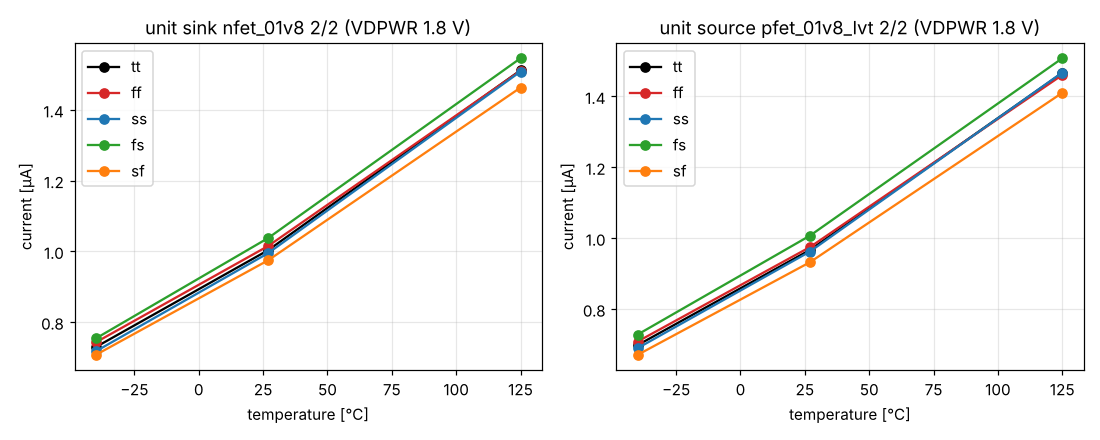
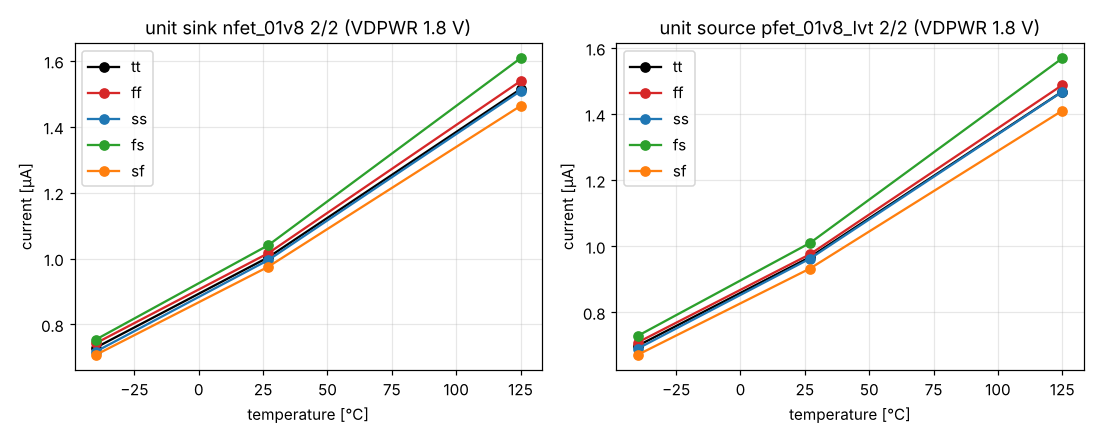
Chunk 1a: bias_gen Phase 2 done (45/45), layout brief final
5 corners x -40/27/125 C x 1.62/1.80/1.98 V: unit sink 0.68-1.64 uA
(mostly temperature, I ~ VT/R1), line <= 8.9 %, startup 45/45 on both
ramps (running by VDPWR <= 0.98 V), power-down <= 43 nA.
- Power-down switches L 0.15 -> 0.5, pd inverter L 0.15 -> 1: the
  minimum-length inverter PMOS leaked 1.5 uA at 125 C in power-down.
- Testbench drives pd from VDPWR (a fixed 1.8 V 'high' left PMOS
  switches partly on at 1.98 V).
- Brief docs/specs/layout_briefs/bias_gen.md has the final sizes.

Claude-Session: https://claude.ai/code/session_018xb9mH8bN9u9RTJdbtix1L

diff --git a/xschem/gen_bias_gen.py b/xschem/gen_bias_gen.py
@@ -52,14 +52,15 @@ for i in range(5):
     p(f"MS2{'ABCDE'[i]}", _ms[i + 1], "VGND", _ms[i], sym=PF, model="pfet_01v8", W=0.42, L=10, nf=1, mult=1)
 n("MS3", "su", "nbias", "VGND", W=2, L=2, nf=1, mult=1)
 n("MS1", "pbias", "su", "VGND", W=0.42, L=1, nf=1, mult=1)
-# power-down
-p("MPD2", "sup", "pd", "VDPWR", sym=PF, model="pfet_01v8", W=0.42, L=0.15, nf=1, mult=1)
-p("MPD1", "pbias", "pdb", "VDPWR", sym=PF, model="pfet_01v8", W=0.42, L=0.15, nf=1, mult=1)
-n("MND1", "nbias", "pd", "VGND", W=0.42, L=0.15, nf=1, mult=1)
-n("MND2", "su", "pd", "VGND", W=0.42, L=0.15, nf=1, mult=1)
+# power-down. Static switches, so not minimum length: at L = 0.15 the off-state leakage at 125 C
+# (fast corners) reached 1.5 uA in power-down (MIP) - Phase 2 sweep, 2026-11-08.
+p("MPD2", "sup", "pd", "VDPWR", sym=PF, model="pfet_01v8", W=0.42, L=0.5, nf=1, mult=1)
+p("MPD1", "pbias", "pdb", "VDPWR", sym=PF, model="pfet_01v8", W=0.42, L=0.5, nf=1, mult=1)
+n("MND1", "nbias", "pd", "VGND", W=0.42, L=0.5, nf=1, mult=1)
+n("MND2", "su", "pd", "VGND", W=0.42, L=0.5, nf=1, mult=1)
 # pd inverter
-p("MIP", "pdb", "pd", "VDPWR", sym=PF, model="pfet_01v8", W=0.84, L=0.15, nf=1, mult=1)
-n("MIN", "pdb", "pd", "VGND", W=0.42, L=0.15, nf=1, mult=1)
+p("MIP", "pdb", "pd", "VDPWR", sym=PF, model="pfet_01v8", W=0.84, L=1, nf=1, mult=1)
+n("MIN", "pdb", "pd", "VGND", W=0.42, L=1, nf=1, mult=1)
 
 s.write(os.path.join(os.path.dirname(os.path.abspath(__file__)), "bias_gen.sch"), sym=True)
 print("wrote xschem/bias_gen.sch, bias_gen.sym")

diff --git a/docs/specs/layout_briefs/bias_gen.md b/docs/specs/layout_briefs/bias_gen.md
@@ -1,6 +1,6 @@
 # Layout brief — chunk 1a: `bias_gen`
 
-**Status: ready to draw (2026-11-08).** Schematic: `xschem/bias_gen.sch` (generated by `xschem/gen_bias_gen.py`).
+**Status: ready to draw (2026-11-08), sizes final after the Phase 2 sweep.** Schematic: `xschem/bias_gen.sch` (generated by `xschem/gen_bias_gen.py`).
 Netlist for LVS: `sim/out/netlist/bias_gen.spice` (`tools/netlist.sh bias_gen`).
 Phase 1 + Phase 2 results: `sim/bias/results.md`, `sim/bias/corners.md`.
 
@@ -37,12 +37,12 @@ exactly these names (text on the metal), because the extraction reads the labels
 | MS2A–E | pfet_01v8 | 0.42 / 10 | 5 in series | sup → ms2_1 → … → ms2_4 → su, G = VGND, B = VDPWR | weak pull-up; a series chain |
 | MS3 | nfet_01v8 | 2 / 2 | 1 | su / nbias / VGND / VGND | |
 | MS1 | nfet_01v8 | 0.42 / 1 | 1 | pbias / su / VGND / VGND | |
-| MPD1 | pfet_01v8 | 0.42 / 0.15 | 1 | pbias / pdb / VDPWR / VDPWR | power-down |
-| MPD2 | pfet_01v8 | 0.42 / 0.15 | 1 | sup / pd / VDPWR / VDPWR | power-down |
-| MND1 | nfet_01v8 | 0.42 / 0.15 | 1 | nbias / pd / VGND / VGND | power-down |
-| MND2 | nfet_01v8 | 0.42 / 0.15 | 1 | su / pd / VGND / VGND | power-down |
-| MIP | pfet_01v8 | 0.84 / 0.15 | 1 | pdb / pd / VDPWR / VDPWR | pd inverter |
-| MIN | nfet_01v8 | 0.42 / 0.15 | 1 | pdb / pd / VGND / VGND | pd inverter |
+| MPD1 | pfet_01v8 | 0.42 / 0.5 | 1 | pbias / pdb / VDPWR / VDPWR | power-down |
+| MPD2 | pfet_01v8 | 0.42 / 0.5 | 1 | sup / pd / VDPWR / VDPWR | power-down |
+| MND1 | nfet_01v8 | 0.42 / 0.5 | 1 | nbias / pd / VGND / VGND | power-down |
+| MND2 | nfet_01v8 | 0.42 / 0.5 | 1 | su / pd / VGND / VGND | power-down |
+| MIP | pfet_01v8 | 0.84 / 1 | 1 | pdb / pd / VDPWR / VDPWR | pd inverter |
+| MIN | nfet_01v8 | 0.42 / 1 | 1 | pdb / pd / VGND / VGND | pd inverter |
 | MDN1, MDN2 | nfet_01v8 | 2 / 2 | 2 | all VGND | dummies at the ends of the MN row |
 | MDP1, MDP2 | pfet_01v8_lvt | 2 / 2 | 2 | all VDPWR | dummies at the ends of the MP row |
 
@@ -91,6 +91,11 @@ i.e. wrong W/L, count as a fail). It must say `Magic DRC: 0 errors` and `LVS: ma
 `layout/cells/bias_gen.gds`. I'll add the KLayout DRC deck run and the post-layout simulation (`--pex`
 netlist into `sim/bias/tb_bias.spice`).
 
-## What consumers see (Phase 2, for the other blocks' margins)
+## Phase 2 result (sizes above are final for layout)
 
-See `sim/bias/corners.md`: unit-current range over corners × temperature × supply.
+From `sim/bias/corners.md`: 45 runs (5 corners × −40/27/125 °C × 1.62/1.80/1.98 V). All pass.
+- Unit sink is **0.68 … 1.64 µA** and unit source is 0.64 … 1.61 µA. The spread is mostly temperature
+  (tt: 0.73 µA at −40 °C, 1.51 µA at 125 °C), because I ∝ VT / R1. Process moves it only ±3 %.
+  Every consumer's own Phase 2 sweep must use this range.
+- Line regulation is ≤ 8.9 % (target < 10 %). Startup works on both ramps in 45/45 runs, and is
+  running by VDPWR ≤ 0.98 V. Power-down current is ≤ 43 nA (125 °C).

diff --git a/sim/bias/corners.md b/sim/bias/corners.md
@@ -1,28 +1,26 @@
 # bias_gen — Phase 2 corners (generated by corners_report.py)
 
-45 runs: corners tt/ff/ss/fs/sf × −40/27/125 °C × VDPWR 1.62/1.80/1.98 V. Failed runs: 0.
+45 runs: corners tt/ff/ss/fs/sf × −40/27/125 °C × VDPWR 1.62/1.80/1.98 V. Failed runs: 0. Runs where the .op current differs from the DC sweep by > 1 %: 0.
 
 ## Unit currents at VDPWR = 1.80 V (µA)
 
 | corner | sink −40 °C | sink 27 °C | sink 125 °C | source −40 °C | source 27 °C | source 125 °C |
 |---|---|---|---|---|---|---|
-| tt | 0.730 | 1.004 | 1.512 | 0.698 | 0.967 | 1.466 |
-| ff | 0.743 | 1.016 | 1.511 | 0.709 | 0.975 | 1.461 |
+| tt | 0.730 | 1.004 | 1.514 | 0.698 | 0.967 | 1.468 |
+| ff | 0.743 | 1.016 | 1.539 | 0.709 | 0.976 | 1.488 |
 | ss | 0.718 | 0.995 | 1.509 | 0.690 | 0.963 | 1.468 |
-| fs | 0.754 | 1.038 | 1.546 | 0.728 | 1.007 | 1.508 |
+| fs | 0.754 | 1.041 | 1.608 | 0.728 | 1.010 | 1.569 |
 | sf | 0.708 | 0.975 | 1.463 | 0.671 | 0.932 | 1.410 |
 
 ## Summary over all 45 runs
 
 | Quantity | min | max | Note |
 |---|---|---|---|
-| Unit sink (nfet 2/2) | 0.324 µA | 1.581 µA | spread 4.89× |
-| Unit source (pfet_lvt 2/2) | 0.304 µA | 1.544 µA | spread 5.08× |
-| bias_gen own current | 0.91 µA | 3.42 µA | |
-| Power-down supply current | 0.02 nA | 5418.54 nA | |
-| Line: sink change 1.62–1.98 V | | 64.5 % | worst at tt, 27 °C (target < 10 %) |
-| Startup (1 µs and 100 µs ramps reach the DC current within 1 %) | | | 44/45 runs |
-| Slow ramp: VDPWR when the sink reaches 0.5 µA | 0.62 V | 1.10 V | worst at sf, -40 °C, 1.98 V (must be < 1.62 V) |
-| Lowest `su` during the ramps | -0.23 V | | junction clamp; startup unaffected |
-
-Startup failures: tt_T27_V1.98
+| Unit sink (nfet 2/2) | 0.676 µA | 1.643 µA | spread 2.43× |
+| Unit source (pfet_lvt 2/2) | 0.639 µA | 1.605 µA | spread 2.51× |
+| bias_gen own current | 1.39 µA | 3.51 µA | |
+| Power-down supply current | 0.02 nA | 42.95 nA | |
+| Line: sink change 1.62–1.98 V | | 8.9 % | worst at sf, -40 °C (target < 10 %) |
+| Startup (1 µs and 100 µs ramps reach the DC current within 1 %) | | | 45/45 runs |
+| Slow ramp: VDPWR when the sink reaches 0.5 µA | 0.62 V | 0.98 V | worst at fs, -40 °C, 1.98 V (must be < 1.62 V) |
+| Lowest `su` during the ramps | -0.15 V | | junction clamp; startup unaffected |

diff --git a/sim/bias/README.md b/sim/bias/README.md
@@ -43,3 +43,16 @@ own consumption, 0.7 nA when powered down, starts from 0 V on both a 1 µs and a
 - **`tb_bias.spice` uses `.options method=gear`.** With trapezoidal integration, after the 1 µs startup ramp the
   unit sink showed 0.90 µA for tens of µs, while every node voltage was already at its DC value
   (a numerical error current, gone with gear or with reltol 1e-5; same check with the old netlist: 1.004 µA).
+
+## Phase 2 (2026-11-08)
+
+`../../tools/run_corners.py tb_bias.spice --corners tt,ff,ss,fs,sf --temps=-40,27,125 --vdd 1.62,1.8,1.98`
+then `python3 corners_report.py` → `corners.md`, `plots/corners.png`. All 45 runs pass (summary in `corners.md`).
+Changes it caused:
+- **Power-down switches and the pd inverter are no longer minimum length** (switches L = 0.5, inverter
+  L = 1). At L = 0.15 the inverter PMOS leaked 1.5 µA at 125 °C in power-down; now the worst case is 43 nA.
+- **The testbench drives `pd` from VDPWR** (`EPD`, gain 0/1), not a fixed 1.8 V source. At 1.98 V a 1.8 V
+  "high" left the PMOS switches partly on.
+- **Nodesets for `.op`.** At tt/27 °C/1.98 V the plain `.op` converged to a non-physical point. The report
+  cross-checks each `.op` current against the DC sweep.
+- **Layout dummies** MDN1/2 and MDP1/2 are in the schematic.

diff --git a/docs/specs/stage_plan.md b/docs/specs/stage_plan.md
@@ -148,7 +148,7 @@ pass through simulation, layout and LVS on a small block.
 | Stage | a | b | c | d | e | f | g | Notes |
 |---|---|---|---|---|---|---|---|---|
 | 0 Devices | — | ✅ 2026-11-01 | | — | — | — | — | `sim/devices/README.md`: ideal zero-TC VBG ≈ 1.25 V (stage 3 later found 1.215 V for the real circuit), tight headroom at 1.62 V |
-| 1 Bias | ✅ 2026-11-01 | ✅ 2026-11-01 | | | | | | `sim/bias/README.md`: 1.00 µA, 2.15 µA own current, starts on fast and slow ramps |
+| 1 Bias | ✅ 2026-11-01 (layout changes 11-08) | ✅ 2026-11-01 | ✅ 2026-11-08, 45/45 | | | | | `sim/bias/README.md`: 1.00 µA, 2.15 µA own current, starts on fast and slow ramps; Phase 2 0.68–1.64 µA (mostly temperature), line ≤ 8.9 %, PD ≤ 43 nA (`corners.md`) |
 | 2 OTA | ✅ 2026-11-01 | ✅ 2026-11-01 | | | | | | `sim/ota/README.md`: two-stage, 80.4 dB, PM 81° (0.5 pF load, CC 0.7 pF), 5.8 µA; Monte Carlo offset in Phase 2 |
 | 3 Bandgap | ✅ 2026-11-01 | ✅ 2026-11-01 | | | | | | `sim/bandgap/README.md`: VBG 1.215 V (B1 margin), 15.7 µA, PM 82.5°, 22 ppm/°C at tt; raw PSRR at 1 MHz fails (fixed by the stage 5 filter) |
 | 4 PTAT | ✅ 2026-11-07 | ✅ 2026-11-07 | | | | | | `sim/ptat/README.md`: 0.599 V, 2.00 mV/°C, VBG unaffected, loop PM 79.9° |

diff --git a/docs/specs/layout_plan.md b/docs/specs/layout_plan.md
@@ -32,7 +32,7 @@ gets a brief (devices, sizes, matching groups, pin positions, target outline).
 |---|---|---|---|
 | **M0** | Frame: DEF outline/pins, power stripes, output ties, CI precheck green | Claude | **Done Nov 8**: TT precheck green in CI (gds run 46, commit 5849aa6) |
 | 0b | Floorplan: final position and outline of every block | Claude (designer reviews) | Nov 10 — draft Nov 8 (`docs/specs/floorplan.md`) |
-| 1a | bias_gen | designer | Nov 11 |
+| 1a | bias_gen | designer | Nov 11 — Phase 2 done and brief ready Nov 8 (`docs/specs/layout_briefs/bias_gen.md`) |
 | 1b | ota | designer | Nov 12 |
 | 1c | PNP 3×3 common-centroid array + R1/R2 unit-resistor chains (scripted) | Claude | Nov 11 |
 | 1d | bandgap_core assembly (1b + 1c + current sources + startup) | designer, Claude checks | Nov 13–14 |

diff --git a/sim/bias/results.md b/sim/bias/results.md
@@ -10,7 +10,7 @@ Generated by `report.py` from `tb_bias.spice`.
 | bias_gen own supply current | 2.15 µA | — |  |
 | Line: sink change over 1.62–1.98 V | 6.4 % | < 10 % (Phase 2 target) | ✅ |
 | Sink compliance (95 % of current) | 0.37 V | — |  |
-| Power-down supply current | 0.69 nA | — |  |
+| Power-down supply current | 0.04 nA | — |  |
 | Startup, 1 µs ramp: settled to 1 % after ramp end | 0.04 µs | starts from 0 V | ✅ |
 | Startup, 100 µs ramp: VDPWR when current reaches 50 % | 0.74 V | starts before VDPWR = 1.62 V | ✅ |
 | Startup node v(su) when running | 13 mV | MS1 off | ✅ |
